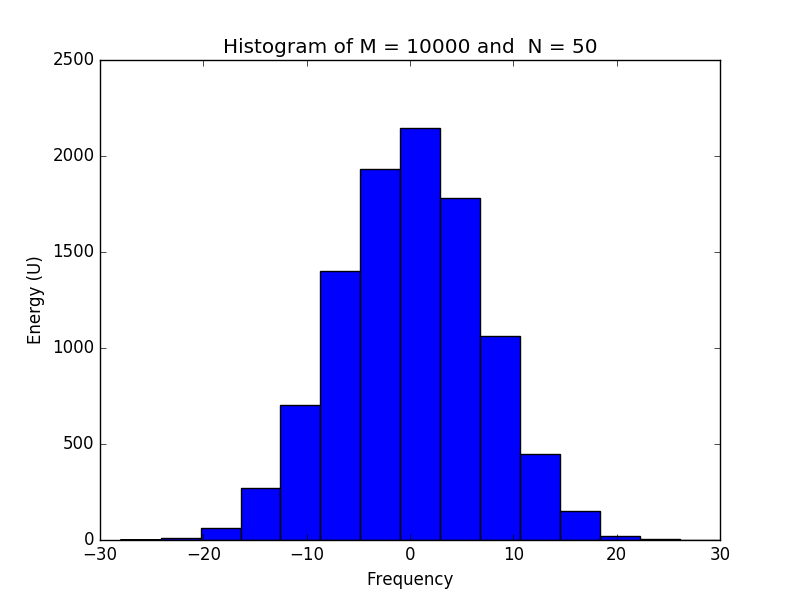
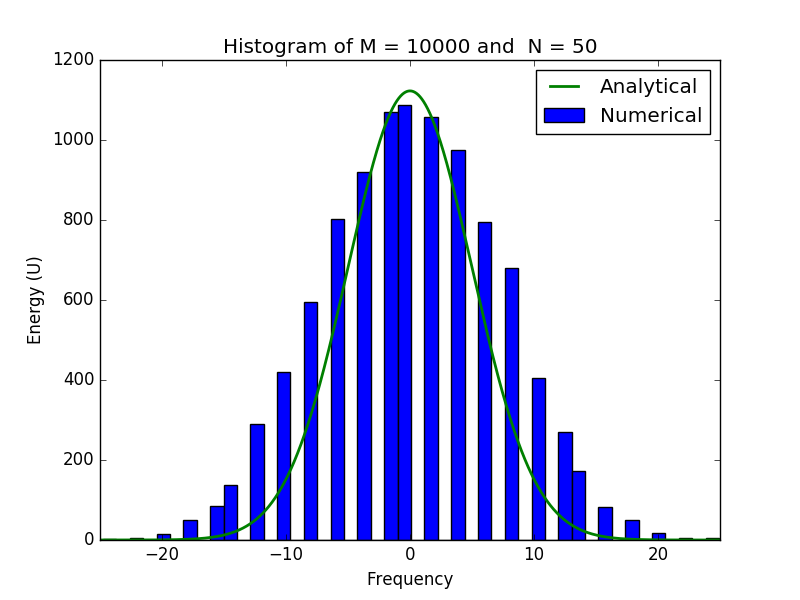
Renamed files, generated new figure

diff --git a/oblig01/scripts/RandomSpin.py b/oblig01/scripts/RandomSpin.py
@@ -1,5 +1,6 @@
 import numpy as np 
 from matplotlib import pyplot as plt
+import scipy.misc
 
 class RandomSpin():
 	"""Generates M microstates randomly for a system
@@ -9,7 +10,9 @@ class RandomSpin():
 		self.M = M
 		self.N = N
 
-		# mu and B are set to one as standard.
+		# mu and B are set to 1 as default.
+		# In reality for a two-state paramagnet 
+		# mu is the Bohr magneton
 		self.mu = 1.0
 		self.B = 1.0
 
@@ -20,18 +23,30 @@ class RandomSpin():
 				# Generates ranom numers -1 or +1
 				self.microstates[i,j] = np.random.randint(2)*2 -1
 
-	def energyHistogram(self):
+	def energyHistogram(self, binsNumber=10):
 		net_spin = np.zeros(self.M)
 		for i in range(self.M):
 			net_spin[i] = float(sum(self.microstates[i,:])) / 2
 		
 		# Energy
-		U = - 2 *self.mu * self.B * net_spin 
-		plt.hist(U)
+		U = - 2 *self.mu * self.B * net_spin
+
+		# Analytical solution
+		nu = np.linspace(-self.N,self.N,self.M)
+		prob = self.M*\
+			scipy.misc.comb(self.N,self.N/2)*\
+			np.exp(-nu*nu/self.N)/\
+			2**(self.N)
+			
+
+		plt.hist(U, bins=binsNumber, label="Numerical")
+		plt.plot(nu, prob, label="Analytical", linewidth=2)
 		plt.title("Histogram of M = "+ str(self.M) \
 			+ " and  N = " + str(self.N))
 		plt.xlabel("Frequency")
 		plt.ylabel("Energy (U)")
+		plt.xlim([-self.N/2,self.N/2])
+		plt.legend()
 		plt.show()
 
 	# Setter for mu
@@ -44,7 +59,8 @@ class RandomSpin():
 
 
 if __name__ == '__main__':
-
-	spin50 =  RandomSpin(10000,50)
-	spin50.energyHistogram()
+	M = 10000
+	N = 50
+	spin50 =  RandomSpin(M, N)
+	spin50.energyHistogram(N) # argument is number of bins
 		
